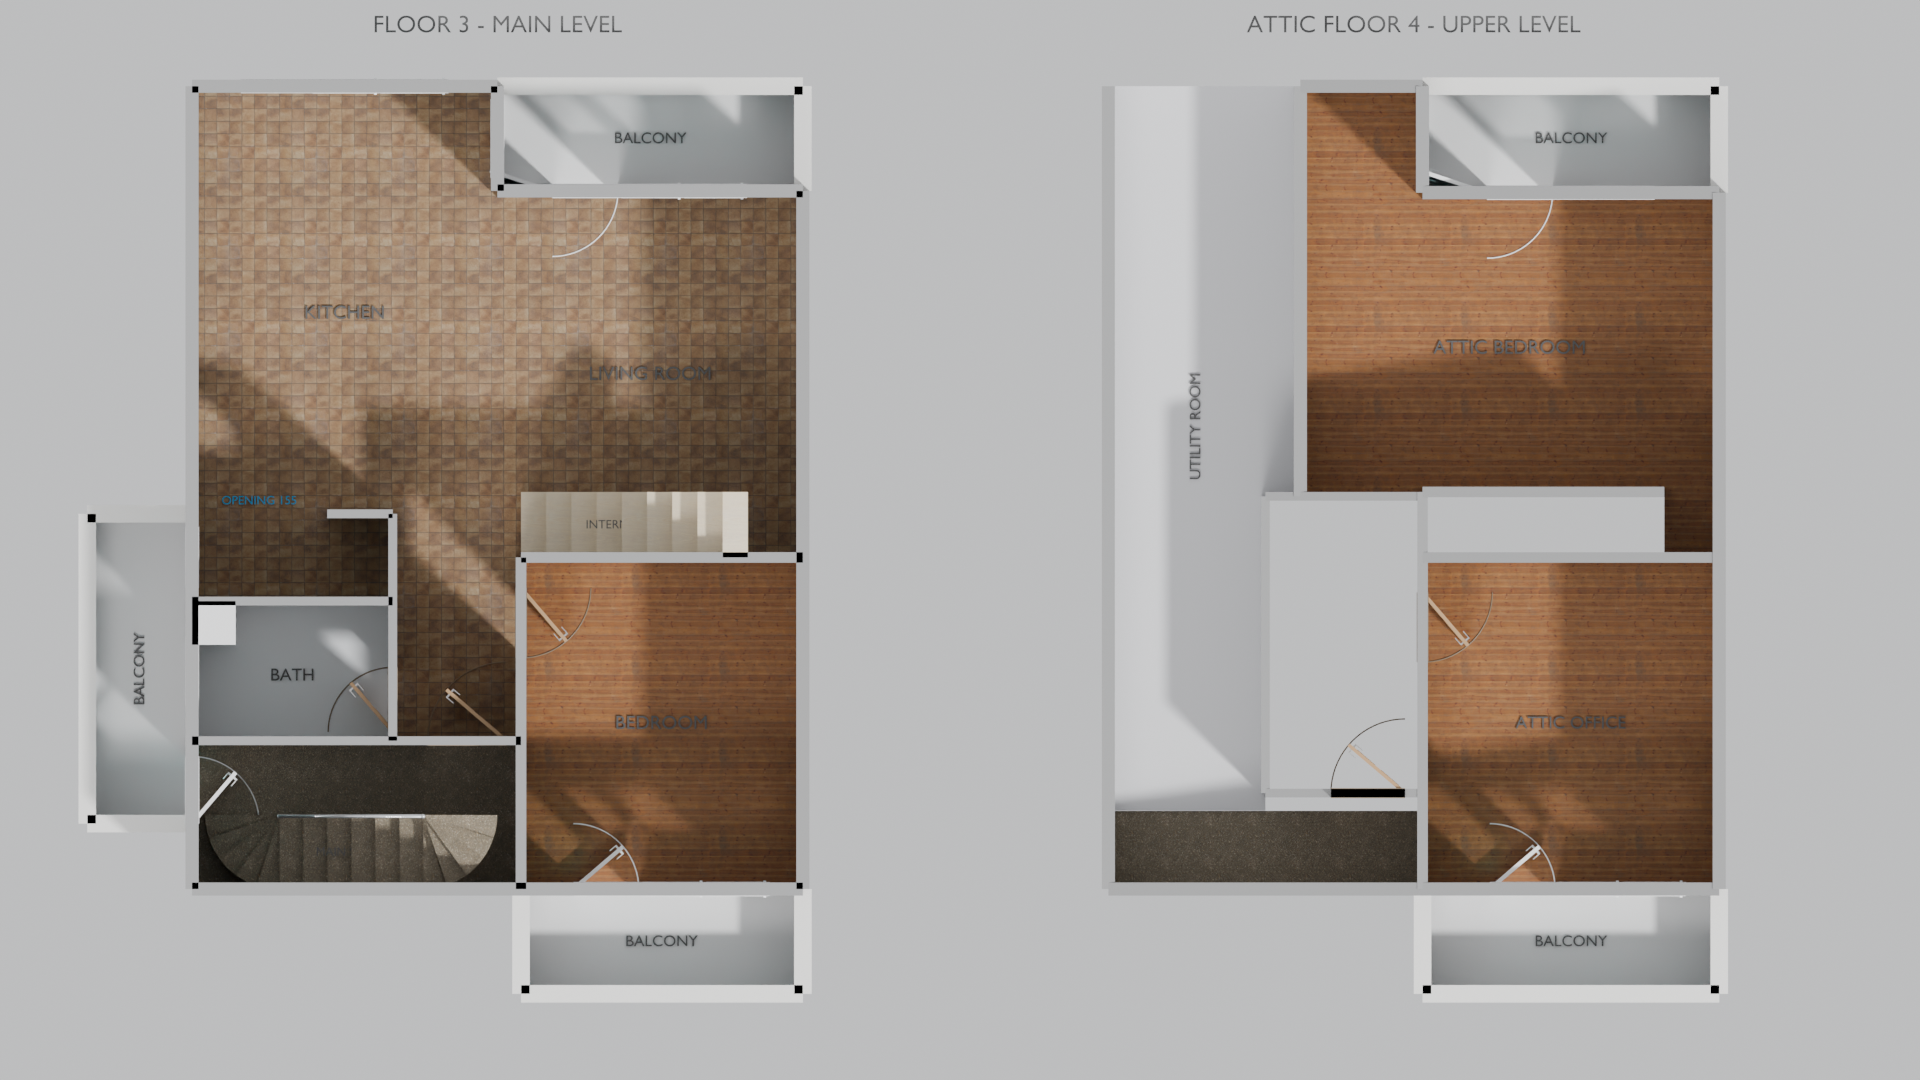
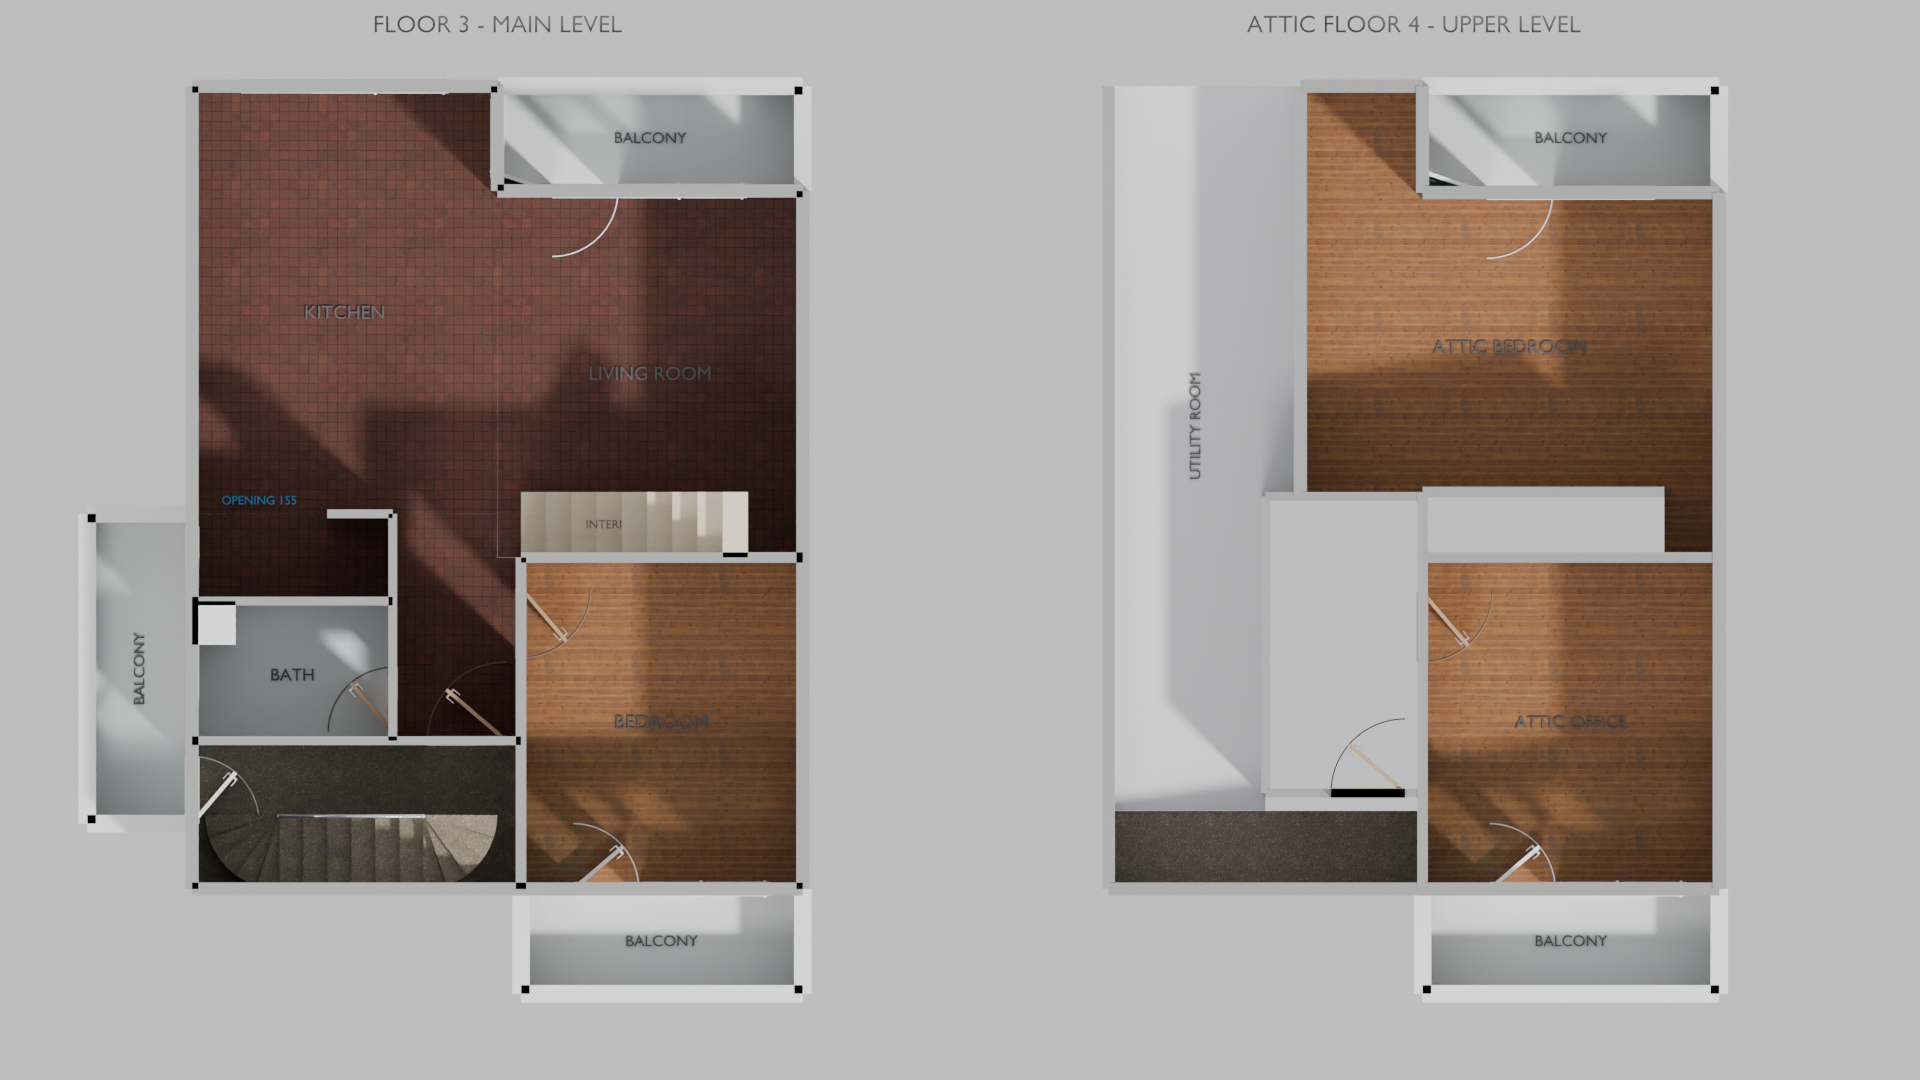
v9 change tiles

Changed region(s): [[0.0938, 0.0611, 0.4375, 0.7028]]

diff --git a/scripts/cad_markovo/materials.py b/scripts/cad_markovo/materials.py
@@ -62,15 +62,17 @@ def make_pbr_material(
 
 def load_polyhaven_tiles_material(name: str = "Clay_Tiles_Mat") -> bpy.types.Material:
     """
-    Loads Poly Haven's 'brown_floor_tiles' scanned PBR material from the assets/ folder.
+    Loads Poly Haven's 'terracotta_floor_tiles' scanned PBR material from the assets/ folder.
     Configures viewport diffuse preview color and ensures valid texture paths.
     Falls back gracefully to procedural `create_clay_tiles_material()` if the asset is missing.
     """
     repo_root = Path(__file__).resolve().parents[2]
     candidate_paths = [
+        repo_root / "assets" / "terracotta_floor_tiles_4k.blend" / "terracotta_floor_tiles_4k.blend",
+        repo_root / "assets" / "terracotta_floor_tiles_4k.blend",
+        repo_root / "assets" / "terracotta_floor_tiles.blend",
         repo_root / "assets" / "brown_floor_tiles_4k.blend" / "brown_floor_tiles_4k.blend",
         repo_root / "assets" / "brown_floor_tiles_4k.blend",
-        repo_root / "assets" / "brown_floor_tiles.blend",
     ]
 
     blend_file = None
@@ -84,32 +86,55 @@ def load_polyhaven_tiles_material(name: str = "Clay_Tiles_Mat") -> bpy.types.Mat
         return create_clay_tiles_material(name=name)
 
     try:
+        target_mat = "terracotta_floor_tiles"
         with bpy.data.libraries.load(str(blend_file), link=False) as (data_from, data_to):
-            if "brown_floor_tiles" in data_from.materials:
-                data_to.materials = ["brown_floor_tiles"]
+            if "terracotta_floor_tiles" in data_from.materials:
+                target_mat = "terracotta_floor_tiles"
+                data_to.materials = [target_mat]
+            elif "brown_floor_tiles" in data_from.materials:
+                target_mat = "brown_floor_tiles"
+                data_to.materials = [target_mat]
             elif data_from.materials:
-                data_to.materials = [data_from.materials[0]]
+                target_mat = data_from.materials[0]
+                data_to.materials = [target_mat]
 
-        loaded_mat = bpy.data.materials.get("brown_floor_tiles")
+        loaded_mat = bpy.data.materials.get(target_mat)
         if not loaded_mat:
-            print("[Materials] 'brown_floor_tiles' material not found in library. Falling back to procedural.")
+            print(f"[Materials] '{target_mat}' material not found in library. Falling back to procedural.")
             return create_clay_tiles_material(name=name)
 
         # Set rich warm terracotta viewport diffuse color
-        loaded_mat.diffuse_color = (0.58, 0.32, 0.18, 1.0)
+        loaded_mat.diffuse_color = (0.62, 0.35, 0.20, 1.0)
         loaded_mat.name = name
 
         # Verify and fix texture image paths if needed
         textures_dir = blend_file.parent / "textures"
-        if loaded_mat.node_tree:
+        if loaded_mat.node_tree and textures_dir.is_dir():
+            avail_textures = {p.stem.lower(): p for p in textures_dir.iterdir() if p.is_file()}
             for node in loaded_mat.node_tree.nodes:
                 if node.type == "TEX_IMAGE" and node.image:
                     img_path = Path(bpy.path.abspath(node.image.filepath))
                     if not img_path.exists():
-                        local_match = textures_dir / Path(node.image.filepath).name
+                        fname = Path(node.image.filepath).name
+                        local_match = textures_dir / fname
                         if local_match.exists():
                             node.image.filepath = str(local_match)
                             node.image.reload()
+                        else:
+                            stem_lower = Path(node.image.filepath).stem.lower()
+                            matched = None
+                            for k, p in avail_textures.items():
+                                if k == stem_lower or (
+                                    ("diff" in stem_lower and "diff" in k)
+                                    or ("disp" in stem_lower and "disp" in k)
+                                    or ("rough" in stem_lower and "rough" in k)
+                                    or ("nor" in stem_lower and "nor" in k)
+                                ):
+                                    matched = p
+                                    break
+                            if matched and matched.exists():
+                                node.image.filepath = str(matched)
+                                node.image.reload()
 
         return loaded_mat
 
@@ -588,7 +613,7 @@ def create_materials() -> dict:
         "terrace_coping": make_pbr_material("Terrace_Coping_Mat", (0.86, 0.85, 0.82, 1.0), roughness=0.5),
 
         # Floor Finishes (Matched to user reference photos & Poly Haven scanned PBR)
-        "clay_tiles": load_polyhaven_tiles_material("brown_floor_tiles"),
+        "clay_tiles": load_polyhaven_tiles_material("terracotta_floor_tiles"),
         "parquet_light_wood": load_polyhaven_wood_material("wood_floor_worn"),
         "cement_mosaic": create_cement_mosaic_material("Cement_Mosaic_Stairs_Mat"),
         "concrete_floor": load_polyhaven_concrete_material("concrete_floor_01"),

diff --git a/scripts/download_polyhaven.py b/scripts/download_polyhaven.py
@@ -101,6 +101,13 @@ def download_asset(
             blend_dest = asset_dir / f"{asset_id}_{resolution}.blend"
             download_file(file_url, blend_dest, label=f"Blender Scene ({blend_dest.name})")
 
+            # Download exact include dependencies expected by the .blend file
+            includes = blend_info["blend"].get("include", {})
+            for inc_path, inc_data in includes.items():
+                dest_file = asset_dir / inc_path
+                if not dest_file.exists() and "url" in inc_data:
+                    download_file(inc_data["url"], dest_file, label=f"Include: {Path(inc_path).name}")
+
     # 2. Download PBR Textures
     textures_dir = asset_dir / "textures"
     textures_dir.mkdir(parents=True, exist_ok=True)

diff --git a/scripts/blender_floor_plans.py b/scripts/blender_floor_plans.py
@@ -125,7 +125,7 @@ def main():
     mats = materials.create_materials()
     print(f"      - Loaded {len(mats)} materials:")
     print("        * White uPVC (External Doors & Windows)")
-    print("        * Poly Haven Scanned Tiles (Kitchen & Living Room)")
+    print("        * Poly Haven Terracotta Floor Tiles (Kitchen & Living Room)")
     print("        * Poly Haven Worn Wood Floor (Bedroom & Attic)")
     print("        * Poly Haven Concrete Floor 01 (Main Stairs & Landings)")
     print("        * Poly Haven White Maple Veneer (Internal Stairs)")
